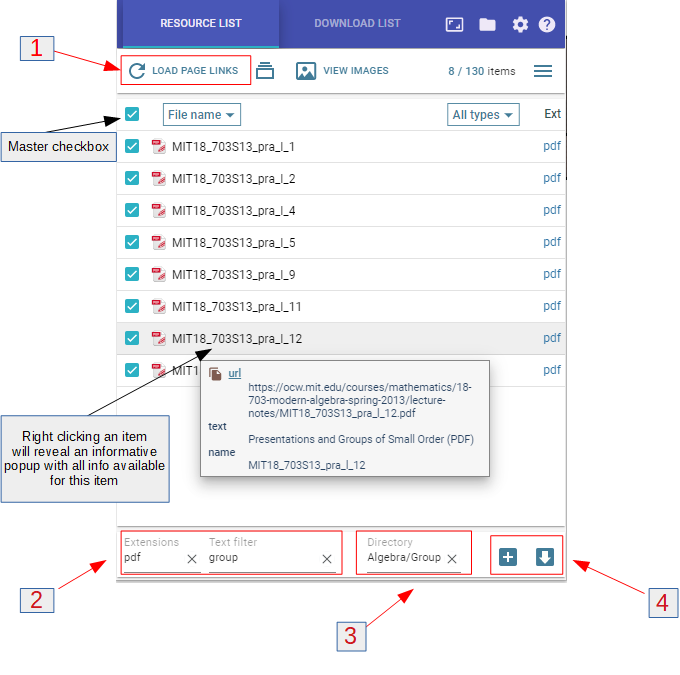
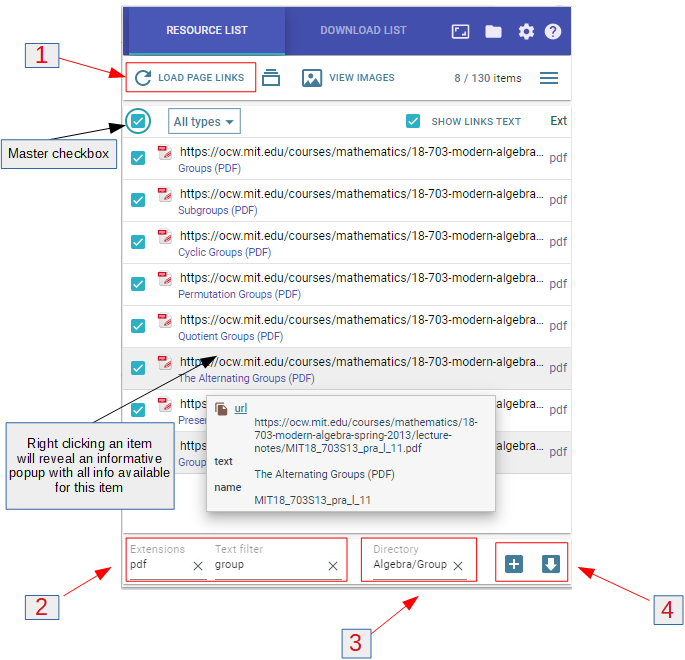
rita

Changed region(s): [[0.0, 0.0, 0.8956, 1.0], [0.8956, 0.8788, 1.0, 0.9394], [0.0309, 0.0303, 0.1235, 0.1212]]

diff --git a/quick_start_v2.html b/quick_start_v2.html
@@ -280,14 +280,14 @@
                         only desirable links stay
                         here.
                         You can start filtering process by writing <code>pdf</code>
-                        in the dedicated extensions field (or <code> pdf epub doc</code> if you seek more types).</div>
-                    <div class="lidiv"> Note that, by default, the items on
+                        in the dedicated extensions field (or <code> pdf epub doc</code> if you seek more types) and next write the term <code>group</code> in the Text filter box</div>
+<!--                     <div class="lidiv"> Note that, by default, the items on
                         the resource list shows with their "natural" filenames and these filenames look sometimes very
                         different from the text links as visible on the page.
                         But, if you write in the textfilter field the desired term <strong>group</strong>, the addon is
                         smart enough to filter only those items with term <strong>group</strong> in their text
                         attribute.
-                    </div>
+                    </div> -->
                     <div class="lidiv" style="color: #3F51B5;border: 1px solid #3F51B5;padding: 3px;">Now you have isolated all desired pdf. Next check all
                         items <strong>at once</strong> (using the top master checkbox) or only <strong>a range</strong> (using
                         <code>shift + click</code>) </div>
@@ -309,7 +309,7 @@
                 </li>
 
                 <li>
-                    <div class="lidiv"><span class="color">Last step</span>: if you can live with these default
+                    <div class="lidiv"><span class="color">Last step</span>: if you can live with the default
                         filenames, you only have to click the <strong>download now</strong> button <img
                             src="images/image-17a.png"></img> for
                         <strong>immediate downloading</strong></div>
@@ -326,7 +326,7 @@
                 Sometimes, it's better to do some <strong>batch renaming</strong> before downloading and, in this
                 case, the user <strong style = "color:#3F51B5;">will click on the other button</strong>
                 <img src="images/image-17b.png"></img>. This <strong>will simply add</strong> the checked items to the
-                (passive) download list:
+                (passive) download list, with their <strong>default file names</strong>:
                 <div class="img-container"><img src="images/image-18.png"></img></div>
 
                 Of course, the user can start individual items or edit their name/directory using the corresponding buttons
